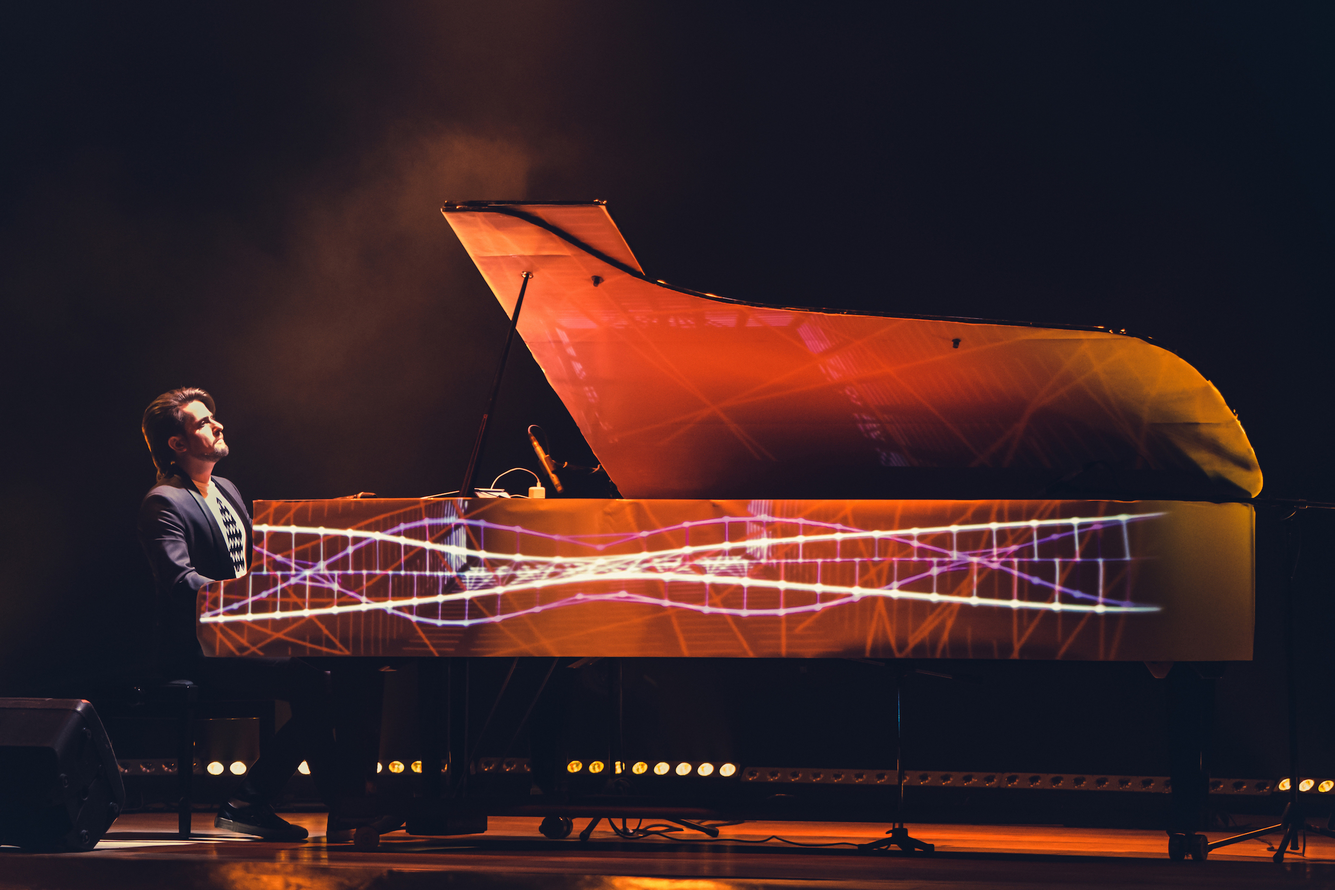
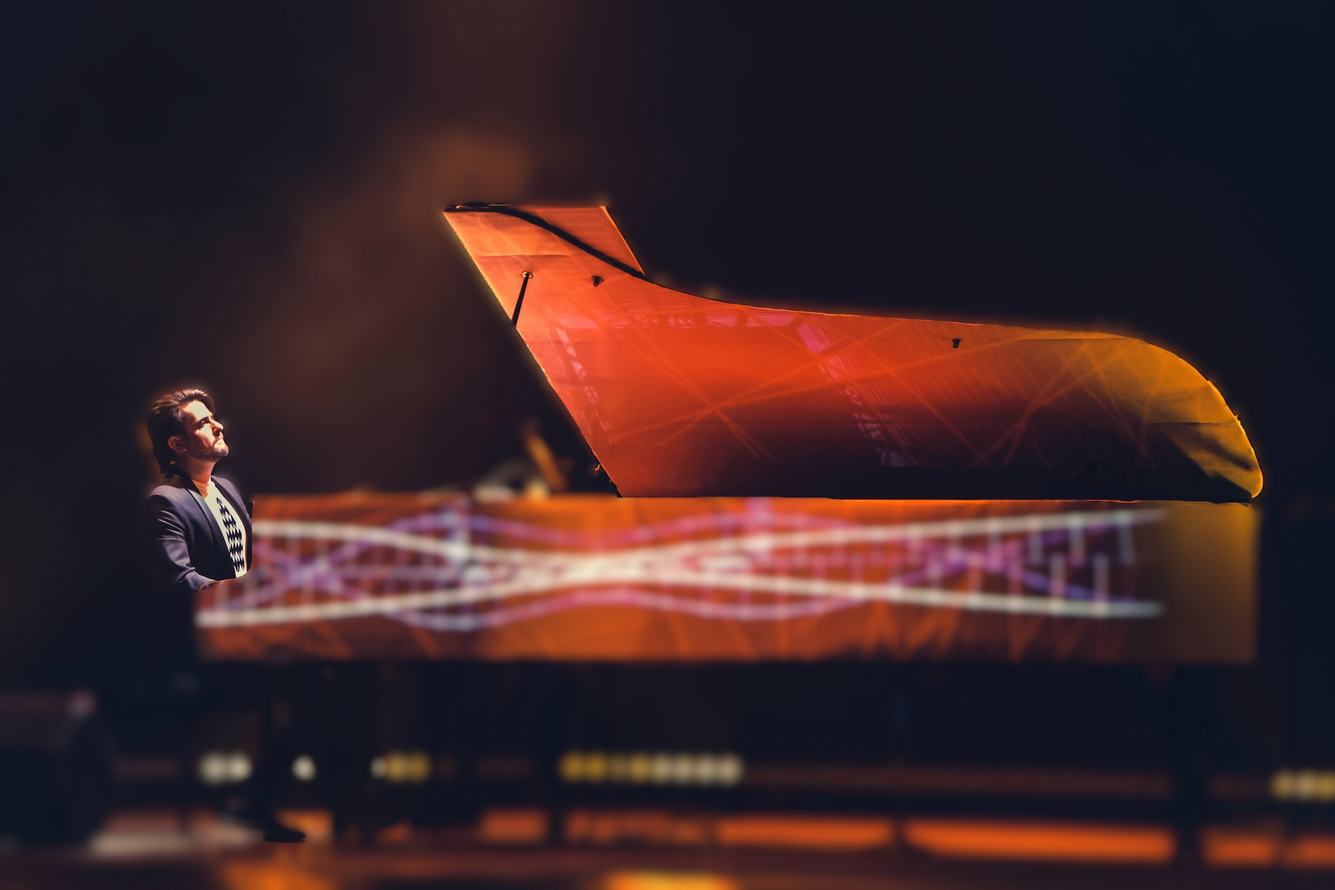
new photo

diff --git a/app/contact/page.tsx b/app/contact/page.tsx
@@ -18,7 +18,7 @@ export default function Contact() {
           <h1 className="text-5xl md:text-7xl font-serif font-bold mb-8">
             <span className="gradient-text">Контакты</span>
           </h1>
-          <p className="text-xl md:text-2xl text-gray-700 max-w-4xl mx-auto">
+          <p className="text-xl md:text-2xl text-slate-200 max-w-4xl mx-auto font-metropolis">
             Свяжитесь для организации концертов, сотрудничества или просто для общения
           </p>
         </motion.div>

diff --git a/app/components/Navigation.tsx b/app/components/Navigation.tsx
@@ -26,7 +26,7 @@ export default function Navigation() {
   ]
 
   return (
-    <nav className={`fixed top-0 w-full z-50 transition-all duration-500 ${
+    <nav className={`fixed top-0 w-full z-50 transition-all duration-500 font-metropolis ${
       isScrolled ? 'bg-black' : 'bg-transparent'
     }`}>
       <div className="max-w-7xl mx-auto container-padding">

diff --git a/app/concerts/page.tsx b/app/concerts/page.tsx
@@ -100,7 +100,7 @@ export default function Concerts() {
         >
             <div className="relative rounded-3xl overflow-hidden">
             <Image
-              src="/images/1.jpg"
+              src="/images/8.jpg"
               alt="Евгений Соколовский на сцене"
               width={1200}
               height={400}

diff --git a/app/layout.tsx b/app/layout.tsx
@@ -42,7 +42,7 @@ export default function RootLayout({
             alt="Фон"
             fill
             priority
-            className="object-cover scale-105 grayscale"
+            className="object-cover scale-105 grayscale "
           />
           <div className="absolute inset-0 bg-black/40"></div>
               </div>

diff --git a/app/globals.css b/app/globals.css
@@ -91,7 +91,7 @@ body {
   max-width: 100vw;
   overflow-x: hidden;
   background: transparent;
-  color: #f1f5f9;
+  color: #000000;
 }
 
 body {
